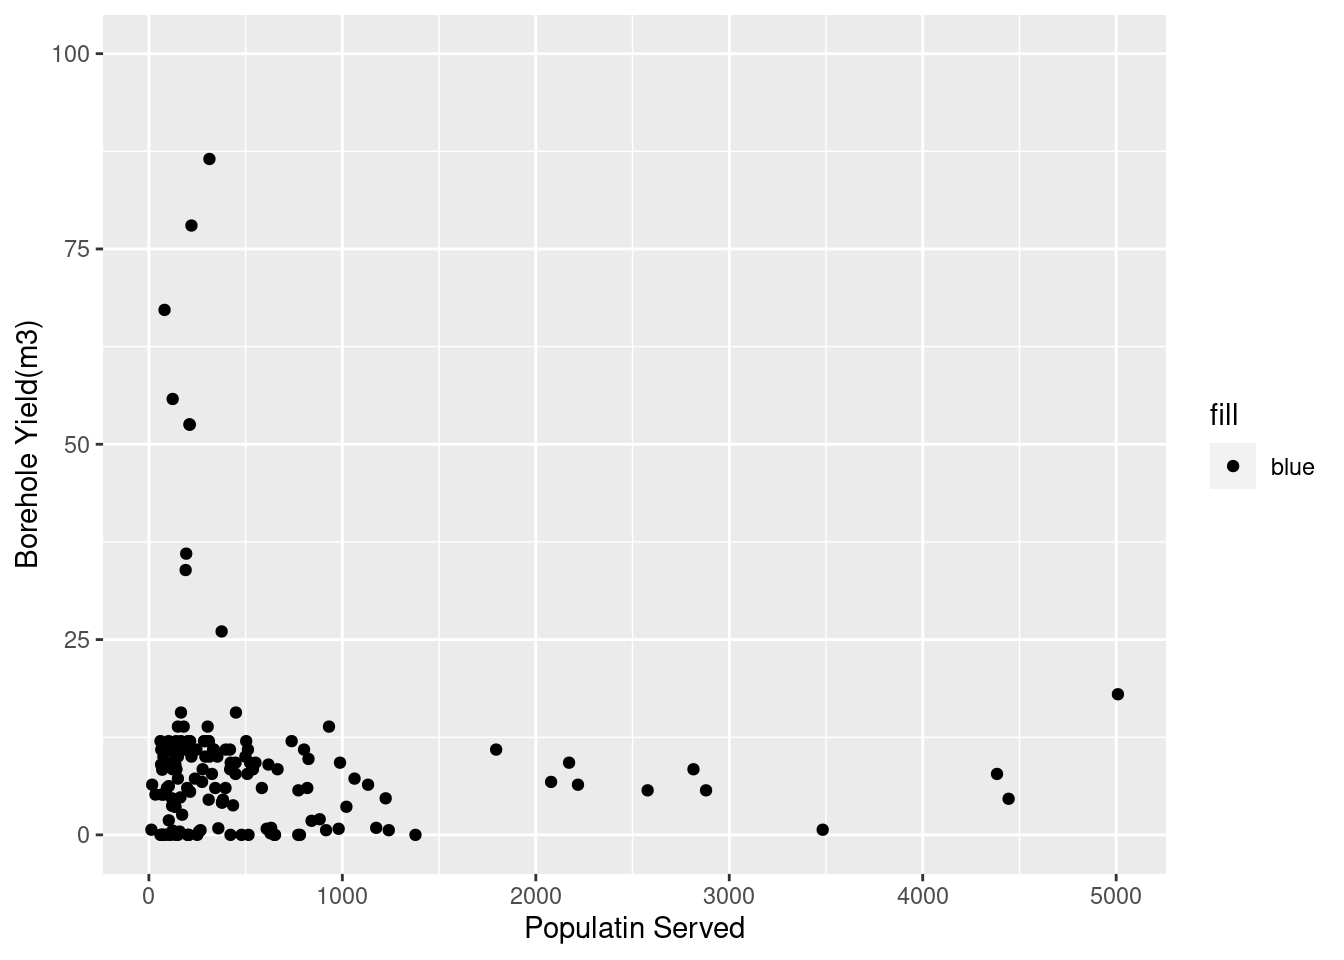
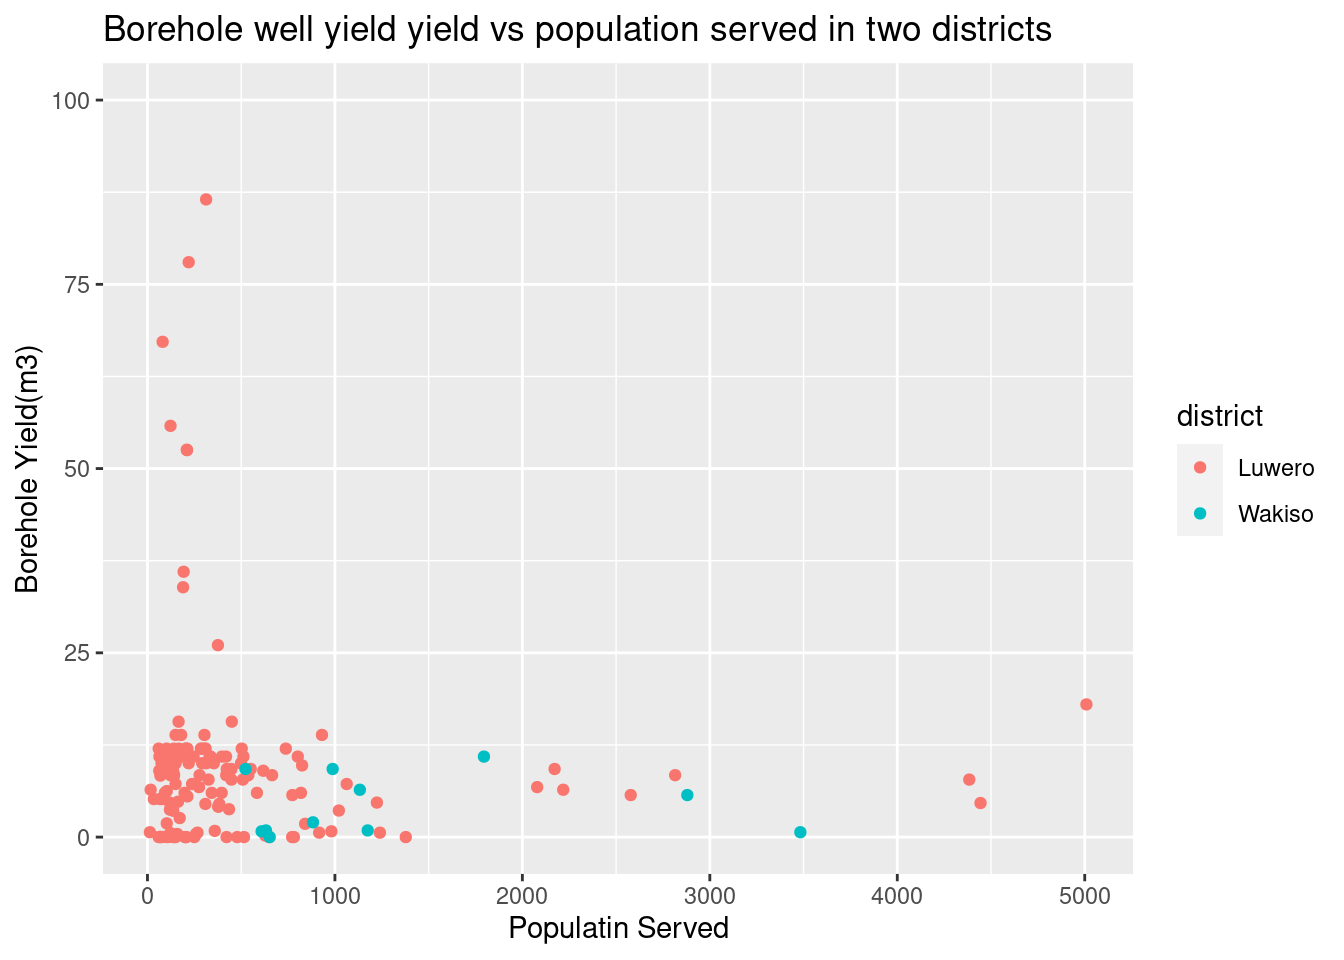
Feb 10

diff --git a/docs/index.html b/docs/index.html
@@ -141,76 +141,135 @@ pre > code.sourceCode > span > a:first-child::before { text-decoration: underlin
 <span id="cb1-6"><a href="#cb1-6" aria-hidden="true" tabindex="-1"></a><span class="fu">library</span>(lubridate)</span>
 <span id="cb1-7"><a href="#cb1-7" aria-hidden="true" tabindex="-1"></a><span class="fu">library</span>(readr)</span>
 <span id="cb1-8"><a href="#cb1-8" aria-hidden="true" tabindex="-1"></a><span class="fu">library</span>(readxl)</span>
-<span id="cb1-9"><a href="#cb1-9" aria-hidden="true" tabindex="-1"></a><span class="fu">library</span>(dplyr)</span></code><button title="Copy to Clipboard" class="code-copy-button"><i class="bi"></i></button></pre></div>
+<span id="cb1-9"><a href="#cb1-9" aria-hidden="true" tabindex="-1"></a><span class="fu">library</span>(gt)</span>
+<span id="cb1-10"><a href="#cb1-10" aria-hidden="true" tabindex="-1"></a><span class="fu">library</span>(dplyr)</span>
+<span id="cb1-11"><a href="#cb1-11" aria-hidden="true" tabindex="-1"></a><span class="fu">library</span>(knitr)</span></code><button title="Copy to Clipboard" class="code-copy-button"><i class="bi"></i></button></pre></div>
 </div>
 <div class="cell">
 <div class="sourceCode cell-code" id="cb2"><pre class="sourceCode r code-with-copy"><code class="sourceCode r"><span id="cb2-1"><a href="#cb2-1" aria-hidden="true" tabindex="-1"></a>borehole <span class="ot">&lt;-</span> <span class="fu">read_csv</span>(here<span class="sc">::</span><span class="fu">here</span>(<span class="st">"data/raw/borehole_repair_data.csv"</span>))</span></code><button title="Copy to Clipboard" class="code-copy-button"><i class="bi"></i></button></pre></div>
 </div>
-<pre><code></code></pre>
 <div class="cell">
-<div class="sourceCode cell-code" id="cb4"><pre class="sourceCode r code-with-copy"><code class="sourceCode r"><span id="cb4-1"><a href="#cb4-1" aria-hidden="true" tabindex="-1"></a>new_well_yield <span class="ot">&lt;-</span> borehole <span class="sc">|&gt;</span> </span>
-<span id="cb4-2"><a href="#cb4-2" aria-hidden="true" tabindex="-1"></a>   <span class="fu">rename</span>(<span class="st">"well_yield"</span> <span class="ot">=</span> <span class="st">"well_yield_(m^3/hr)"</span>)</span>
-<span id="cb4-3"><a href="#cb4-3" aria-hidden="true" tabindex="-1"></a> processed_borehole_data <span class="ot">&lt;-</span> <span class="fu">drop_na</span>(new_well_yield)</span></code><button title="Copy to Clipboard" class="code-copy-button"><i class="bi"></i></button></pre></div>
-</div>
-<pre><code></code></pre>
-<div class="cell">
-<div class="sourceCode cell-code" id="cb6"><pre class="sourceCode r code-with-copy"><code class="sourceCode r"><span id="cb6-1"><a href="#cb6-1" aria-hidden="true" tabindex="-1"></a><span class="fu">glimpse</span>(processed_borehole_data)</span></code><button title="Copy to Clipboard" class="code-copy-button"><i class="bi"></i></button></pre></div>
-<div class="cell-output cell-output-stdout">
-<pre><code>Rows: 157
-Columns: 10
-$ community               &lt;chr&gt; "Kiduula", "Wantula", "Kikondere", "Nakabululu…
-$ parish                  &lt;chr&gt; "KABUNYATA", "SEKAMULI", "KYAWANGABI", "BUBUUB…
-$ sub_county              &lt;chr&gt; "Kamira", "Bamunanika", "Butuntumula", "Zirobw…
-$ source_id               &lt;chr&gt; "850", "846", "953", "848", "849", "847", "101…
-$ repair_date             &lt;date&gt; 2021-10-28, 2021-10-28, 2021-10-28, 2021-10-2…
-$ population_served       &lt;dbl&gt; 120, 132, 123, 68, 90, 149, 103, 34, 69, 17, 1…
-$ well_depth              &lt;dbl&gt; 139.23, 54.96, 79.50, 82.70, 121.23, 42.80, 86…
-$ static_water_depth      &lt;dbl&gt; 17.50, 31.90, 16.74, 26.48, 24.70, 17.07, 33.6…
-$ pump_installation_depth &lt;dbl&gt; 51.00, 53.61, 27.00, 67.00, 41.47, 41.70, 60.6…
-$ well_yield              &lt;dbl&gt; 0.04, 0.12, 0.54, 0.03, 0.03, 0.12, 6.24, 5.16…</code></pre>
-</div>
+<div class="sourceCode cell-code" id="cb3"><pre class="sourceCode r code-with-copy"><code class="sourceCode r"><span id="cb3-1"><a href="#cb3-1" aria-hidden="true" tabindex="-1"></a>new_well_yield <span class="ot">&lt;-</span> borehole <span class="sc">|&gt;</span> </span>
+<span id="cb3-2"><a href="#cb3-2" aria-hidden="true" tabindex="-1"></a>   <span class="fu">rename</span>(<span class="st">"well_yield"</span> <span class="ot">=</span> <span class="st">"well_yield_(m^3/hr)"</span>)</span>
+<span id="cb3-3"><a href="#cb3-3" aria-hidden="true" tabindex="-1"></a> processed_borehole_data <span class="ot">&lt;-</span> <span class="fu">drop_na</span>(new_well_yield)</span></code><button title="Copy to Clipboard" class="code-copy-button"><i class="bi"></i></button></pre></div>
 </div>
 <div class="cell">
-<div class="sourceCode cell-code" id="cb8"><pre class="sourceCode r code-with-copy"><code class="sourceCode r"><span id="cb8-1"><a href="#cb8-1" aria-hidden="true" tabindex="-1"></a><span class="fu">write_csv</span>(processed_borehole_data, here<span class="sc">::</span><span class="fu">here</span>(<span class="st">"data/processed/processed_borehole_data.csv"</span>))</span></code><button title="Copy to Clipboard" class="code-copy-button"><i class="bi"></i></button></pre></div>
+<div class="sourceCode cell-code" id="cb4"><pre class="sourceCode r code-with-copy"><code class="sourceCode r"><span id="cb4-1"><a href="#cb4-1" aria-hidden="true" tabindex="-1"></a><span class="fu">write_csv</span>(processed_borehole_data, here<span class="sc">::</span><span class="fu">here</span>(<span class="st">"data/processed/processed_borehole_data.csv"</span>))</span></code><button title="Copy to Clipboard" class="code-copy-button"><i class="bi"></i></button></pre></div>
 </div>
 <div class="cell">
-<div class="sourceCode cell-code" id="cb9"><pre class="sourceCode r code-with-copy"><code class="sourceCode r"><span id="cb9-1"><a href="#cb9-1" aria-hidden="true" tabindex="-1"></a><span class="fu">ggplot</span>(<span class="at">data =</span> processed_borehole_data,</span>
-<span id="cb9-2"><a href="#cb9-2" aria-hidden="true" tabindex="-1"></a>       <span class="at">mapping =</span> <span class="fu">aes</span>(<span class="at">x =</span> well_depth,</span>
-<span id="cb9-3"><a href="#cb9-3" aria-hidden="true" tabindex="-1"></a>                     <span class="at">fill =</span> sub_county)) <span class="sc">+</span></span>
-<span id="cb9-4"><a href="#cb9-4" aria-hidden="true" tabindex="-1"></a>  <span class="fu">geom_histogram</span>()<span class="sc">+</span></span>
-<span id="cb9-5"><a href="#cb9-5" aria-hidden="true" tabindex="-1"></a>  <span class="fu">xlab</span>(<span class="st">"Borehole Depth(m)"</span>)<span class="sc">+</span></span>
-<span id="cb9-6"><a href="#cb9-6" aria-hidden="true" tabindex="-1"></a>  <span class="fu">ylab</span>(<span class="st">"No. of Boreholes"</span>)</span></code><button title="Copy to Clipboard" class="code-copy-button"><i class="bi"></i></button></pre></div>
+<div class="sourceCode cell-code" id="cb5"><pre class="sourceCode r code-with-copy"><code class="sourceCode r"><span id="cb5-1"><a href="#cb5-1" aria-hidden="true" tabindex="-1"></a>district_column <span class="ot">&lt;-</span> processed_borehole_data <span class="sc">|&gt;</span> </span>
+<span id="cb5-2"><a href="#cb5-2" aria-hidden="true" tabindex="-1"></a><span class="fu">mutate</span>(<span class="at">district =</span> <span class="fu">case_when</span>(</span>
+<span id="cb5-3"><a href="#cb5-3" aria-hidden="true" tabindex="-1"></a>  sub_county <span class="sc">==</span> <span class="st">"Gombe"</span> <span class="sc">~</span> <span class="st">"Wakiso"</span>,</span>
+<span id="cb5-4"><a href="#cb5-4" aria-hidden="true" tabindex="-1"></a>  sub_county <span class="sc">==</span> <span class="st">"Kakiri"</span> <span class="sc">~</span> <span class="st">"Wakiso"</span>,</span>
+<span id="cb5-5"><a href="#cb5-5" aria-hidden="true" tabindex="-1"></a>  sub_county <span class="sc">==</span> <span class="st">"Kakiri Town Council"</span> <span class="sc">~</span> <span class="st">"Wakiso"</span>,</span>
+<span id="cb5-6"><a href="#cb5-6" aria-hidden="true" tabindex="-1"></a>  sub_county <span class="sc">==</span> <span class="st">"Namayumba Town Council"</span> <span class="sc">~</span> <span class="st">"Wakiso"</span>,</span>
+<span id="cb5-7"><a href="#cb5-7" aria-hidden="true" tabindex="-1"></a>  sub_county <span class="sc">==</span> <span class="st">"Kira"</span> <span class="sc">~</span> <span class="st">"Wakiso"</span>,</span>
+<span id="cb5-8"><a href="#cb5-8" aria-hidden="true" tabindex="-1"></a>  <span class="cn">TRUE</span> <span class="sc">~</span> <span class="st">"Luwero"</span></span>
+<span id="cb5-9"><a href="#cb5-9" aria-hidden="true" tabindex="-1"></a>  ))</span></code><button title="Copy to Clipboard" class="code-copy-button"><i class="bi"></i></button></pre></div>
+</div>
+<div class="cell">
+<div class="sourceCode cell-code" id="cb6"><pre class="sourceCode r code-with-copy"><code class="sourceCode r"><span id="cb6-1"><a href="#cb6-1" aria-hidden="true" tabindex="-1"></a><span class="fu">ggplot</span>(<span class="at">data =</span> district_column,</span>
+<span id="cb6-2"><a href="#cb6-2" aria-hidden="true" tabindex="-1"></a>       <span class="at">mapping =</span> <span class="fu">aes</span>(<span class="at">x =</span> well_depth,</span>
+<span id="cb6-3"><a href="#cb6-3" aria-hidden="true" tabindex="-1"></a>                     <span class="at">fill =</span> district)) <span class="sc">+</span></span>
+<span id="cb6-4"><a href="#cb6-4" aria-hidden="true" tabindex="-1"></a>  <span class="fu">geom_histogram</span>()<span class="sc">+</span></span>
+<span id="cb6-5"><a href="#cb6-5" aria-hidden="true" tabindex="-1"></a>  <span class="fu">xlab</span>(<span class="st">"Borehole Depth(m)"</span>)<span class="sc">+</span></span>
+<span id="cb6-6"><a href="#cb6-6" aria-hidden="true" tabindex="-1"></a>  <span class="fu">ylab</span>(<span class="st">"No. of Boreholes"</span>)<span class="sc">+</span></span>
+<span id="cb6-7"><a href="#cb6-7" aria-hidden="true" tabindex="-1"></a><span class="fu">labs</span>(<span class="at">title =</span> <span class="st">"Borehole population served summary, data from two districts"</span>)</span></code><button title="Copy to Clipboard" class="code-copy-button"><i class="bi"></i></button></pre></div>
 <div class="cell-output-display">
-<p><img src="index_files/figure-html/Histogram%20showing%20distribution%20of%20well_depth-1.png" class="img-fluid" width="672"></p>
+<div class="quarto-figure quarto-figure-center">
+<figure class="figure">
+<p><img src="index_files/figure-html/Histogram%20showing%20distribution%20of%20well_depth%20per%20district-1.png" class="img-fluid figure-img" width="672"></p>
+<figcaption class="figure-caption">Luwero and Wakiso District borehole depth</figcaption>
+</figure>
 </div>
-</div>
-<div class="cell">
-<div class="sourceCode cell-code" id="cb10"><pre class="sourceCode r code-with-copy"><code class="sourceCode r"><span id="cb10-1"><a href="#cb10-1" aria-hidden="true" tabindex="-1"></a><span class="fu">ggplot</span>(<span class="at">data =</span> processed_borehole_data,</span>
-<span id="cb10-2"><a href="#cb10-2" aria-hidden="true" tabindex="-1"></a>       <span class="at">mapping =</span> <span class="fu">aes</span>(<span class="at">x =</span> population_served,</span>
-<span id="cb10-3"><a href="#cb10-3" aria-hidden="true" tabindex="-1"></a>                     <span class="at">y =</span> well_yield,</span>
-<span id="cb10-4"><a href="#cb10-4" aria-hidden="true" tabindex="-1"></a>                     <span class="at">fill =</span> <span class="st">"blue"</span>))<span class="sc">+</span></span>
-<span id="cb10-5"><a href="#cb10-5" aria-hidden="true" tabindex="-1"></a>  <span class="fu">geom_point</span>()<span class="sc">+</span></span>
-<span id="cb10-6"><a href="#cb10-6" aria-hidden="true" tabindex="-1"></a>  <span class="fu">lims</span>(<span class="at">y =</span> <span class="fu">c</span>(<span class="dv">0</span>,<span class="dv">100</span>))<span class="sc">+</span></span>
-<span id="cb10-7"><a href="#cb10-7" aria-hidden="true" tabindex="-1"></a>  <span class="fu">xlab</span>(<span class="st">"Populatin Served"</span>)<span class="sc">+</span></span>
-<span id="cb10-8"><a href="#cb10-8" aria-hidden="true" tabindex="-1"></a>  <span class="fu">ylab</span>(<span class="st">"Borehole Yield(m3)"</span>)</span></code><button title="Copy to Clipboard" class="code-copy-button"><i class="bi"></i></button></pre></div>
-<div class="cell-output-display">
-<p><img src="index_files/figure-html/Chart%20showing%20distribution%20of%20well%20yield%20according%20to%20Population%20served-1.png" class="img-fluid" width="672"></p>
 </div>
 </div>
 <div class="cell">
-<div class="sourceCode cell-code" id="cb11"><pre class="sourceCode r code-with-copy"><code class="sourceCode r"><span id="cb11-1"><a href="#cb11-1" aria-hidden="true" tabindex="-1"></a>summary_data <span class="ot">&lt;-</span> processed_borehole_data <span class="sc">|&gt;</span>  </span>
-<span id="cb11-2"><a href="#cb11-2" aria-hidden="true" tabindex="-1"></a>  <span class="fu">group_by</span>(repair_date) <span class="sc">|&gt;</span> </span>
-<span id="cb11-3"><a href="#cb11-3" aria-hidden="true" tabindex="-1"></a>  <span class="fu">summarise</span>(<span class="at">count =</span> <span class="fu">n</span>())</span>
-<span id="cb11-4"><a href="#cb11-4" aria-hidden="true" tabindex="-1"></a></span>
-<span id="cb11-5"><a href="#cb11-5" aria-hidden="true" tabindex="-1"></a><span class="fu">ggplot</span>(<span class="at">data =</span> summary_data,</span>
-<span id="cb11-6"><a href="#cb11-6" aria-hidden="true" tabindex="-1"></a>       <span class="at">mapping =</span> <span class="fu">aes</span>(<span class="at">x =</span> <span class="fu">quarter</span>(repair_date),</span>
-<span id="cb11-7"><a href="#cb11-7" aria-hidden="true" tabindex="-1"></a>                     <span class="at">y =</span> count,</span>
-<span id="cb11-8"><a href="#cb11-8" aria-hidden="true" tabindex="-1"></a>                     <span class="at">fill =</span> <span class="fu">year</span>(repair_date))) <span class="sc">+</span></span>
-<span id="cb11-9"><a href="#cb11-9" aria-hidden="true" tabindex="-1"></a>  <span class="fu">geom_col</span>()<span class="sc">+</span></span>
-<span id="cb11-10"><a href="#cb11-10" aria-hidden="true" tabindex="-1"></a>  <span class="fu">xlab</span>(<span class="st">"Repair date/ Quarter"</span>)<span class="sc">+</span></span>
-<span id="cb11-11"><a href="#cb11-11" aria-hidden="true" tabindex="-1"></a>  <span class="fu">ylab</span>(<span class="st">"No. of Boreholes"</span>)</span></code><button title="Copy to Clipboard" class="code-copy-button"><i class="bi"></i></button></pre></div>
+<div class="sourceCode cell-code" id="cb7"><pre class="sourceCode r code-with-copy"><code class="sourceCode r"><span id="cb7-1"><a href="#cb7-1" aria-hidden="true" tabindex="-1"></a><span class="fu">ggplot</span>(<span class="at">data =</span> district_column, </span>
+<span id="cb7-2"><a href="#cb7-2" aria-hidden="true" tabindex="-1"></a>       <span class="at">mapping =</span> <span class="fu">aes</span>(<span class="at">x =</span> population_served, </span>
+<span id="cb7-3"><a href="#cb7-3" aria-hidden="true" tabindex="-1"></a>                     <span class="at">y =</span> well_yield, </span>
+<span id="cb7-4"><a href="#cb7-4" aria-hidden="true" tabindex="-1"></a>                     <span class="at">fill =</span> district, </span>
+<span id="cb7-5"><a href="#cb7-5" aria-hidden="true" tabindex="-1"></a>                     <span class="at">color =</span> district))<span class="sc">+</span> </span>
+<span id="cb7-6"><a href="#cb7-6" aria-hidden="true" tabindex="-1"></a>  <span class="fu">geom_point</span>()<span class="sc">+</span> </span>
+<span id="cb7-7"><a href="#cb7-7" aria-hidden="true" tabindex="-1"></a>  <span class="fu">lims</span>(<span class="at">y =</span> <span class="fu">c</span>(<span class="dv">0</span>,<span class="dv">100</span>))<span class="sc">+</span> </span>
+<span id="cb7-8"><a href="#cb7-8" aria-hidden="true" tabindex="-1"></a>  <span class="fu">xlab</span>(<span class="st">"Populatin Served"</span>)<span class="sc">+</span> </span>
+<span id="cb7-9"><a href="#cb7-9" aria-hidden="true" tabindex="-1"></a>  <span class="fu">ylab</span>(<span class="st">"Borehole Yield(m3)"</span>)<span class="sc">+</span></span>
+<span id="cb7-10"><a href="#cb7-10" aria-hidden="true" tabindex="-1"></a><span class="fu">labs</span>(<span class="at">title =</span> <span class="st">"Borehole well yield yield vs population served in two districts"</span>)</span></code><button title="Copy to Clipboard" class="code-copy-button"><i class="bi"></i></button></pre></div>
 <div class="cell-output-display">
-<p><img src="index_files/figure-html/Line%20graph%20showing%20number%20of%20boreholes%20repaired%20by%20year-1.png" class="img-fluid" width="672"></p>
+<div class="quarto-figure quarto-figure-center">
+<figure class="figure">
+<p><img src="index_files/figure-html/Chart%20showing%20distribution%20of%20well%20yield%20according%20to%20Population%20served-1.png" class="img-fluid figure-img" width="672"></p>
+<figcaption class="figure-caption">Luwero and Wakiso district borehole yield</figcaption>
+</figure>
+</div>
+</div>
+</div>
+<div class="cell">
+<div class="sourceCode cell-code" id="cb8"><pre class="sourceCode r code-with-copy"><code class="sourceCode r"><span id="cb8-1"><a href="#cb8-1" aria-hidden="true" tabindex="-1"></a><span class="co">#| label: Column graph showing number of boreholes repaired by quarter of a year</span></span>
+<span id="cb8-2"><a href="#cb8-2" aria-hidden="true" tabindex="-1"></a><span class="co">#| fig-cap: Borehole by quarter repaired</span></span>
+<span id="cb8-3"><a href="#cb8-3" aria-hidden="true" tabindex="-1"></a></span>
+<span id="cb8-4"><a href="#cb8-4" aria-hidden="true" tabindex="-1"></a>summary_data <span class="ot">&lt;-</span> processed_borehole_data <span class="sc">|&gt;</span>  </span>
+<span id="cb8-5"><a href="#cb8-5" aria-hidden="true" tabindex="-1"></a>  <span class="fu">group_by</span>(repair_date) <span class="sc">|&gt;</span> </span>
+<span id="cb8-6"><a href="#cb8-6" aria-hidden="true" tabindex="-1"></a>  <span class="fu">summarise</span>(<span class="at">count =</span> <span class="fu">n</span>())</span>
+<span id="cb8-7"><a href="#cb8-7" aria-hidden="true" tabindex="-1"></a></span>
+<span id="cb8-8"><a href="#cb8-8" aria-hidden="true" tabindex="-1"></a><span class="fu">ggplot</span>(<span class="at">data =</span> summary_data,</span>
+<span id="cb8-9"><a href="#cb8-9" aria-hidden="true" tabindex="-1"></a>       <span class="at">mapping =</span> <span class="fu">aes</span>(<span class="at">x =</span> <span class="fu">quarter</span>(repair_date),</span>
+<span id="cb8-10"><a href="#cb8-10" aria-hidden="true" tabindex="-1"></a>                     <span class="at">y =</span> count,</span>
+<span id="cb8-11"><a href="#cb8-11" aria-hidden="true" tabindex="-1"></a>                     <span class="at">fill =</span> <span class="fu">year</span>(repair_date))) <span class="sc">+</span></span>
+<span id="cb8-12"><a href="#cb8-12" aria-hidden="true" tabindex="-1"></a>  <span class="fu">geom_col</span>()<span class="sc">+</span></span>
+<span id="cb8-13"><a href="#cb8-13" aria-hidden="true" tabindex="-1"></a>  <span class="fu">xlab</span>(<span class="st">"Repair date/ Quarter"</span>)<span class="sc">+</span></span>
+<span id="cb8-14"><a href="#cb8-14" aria-hidden="true" tabindex="-1"></a>  <span class="fu">ylab</span>(<span class="st">"No. of Boreholes"</span>)<span class="sc">+</span></span>
+<span id="cb8-15"><a href="#cb8-15" aria-hidden="true" tabindex="-1"></a><span class="fu">labs</span>(<span class="at">title =</span> <span class="st">"Borehole repaired by quarter of the year"</span>)</span></code><button title="Copy to Clipboard" class="code-copy-button"><i class="bi"></i></button></pre></div>
+<div class="cell-output-display">
+<p><img src="index_files/figure-html/unnamed-chunk-8-1.png" class="img-fluid" width="672"></p>
+</div>
+</div>
+<div class="cell">
+<div class="sourceCode cell-code" id="cb9"><pre class="sourceCode r code-with-copy"><code class="sourceCode r"><span id="cb9-1"><a href="#cb9-1" aria-hidden="true" tabindex="-1"></a><span class="co"># table creation</span></span>
+<span id="cb9-2"><a href="#cb9-2" aria-hidden="true" tabindex="-1"></a>tbl_bhr_summary <span class="ot">&lt;-</span> district_column <span class="sc">|&gt;</span> </span>
+<span id="cb9-3"><a href="#cb9-3" aria-hidden="true" tabindex="-1"></a>  <span class="fu">group_by</span>(district) <span class="sc">|&gt;</span> </span>
+<span id="cb9-4"><a href="#cb9-4" aria-hidden="true" tabindex="-1"></a>  <span class="fu">summarise</span>(</span>
+<span id="cb9-5"><a href="#cb9-5" aria-hidden="true" tabindex="-1"></a>    <span class="at">count =</span> <span class="fu">n</span>(),</span>
+<span id="cb9-6"><a href="#cb9-6" aria-hidden="true" tabindex="-1"></a>    <span class="at">mean_popn =</span> <span class="fu">mean</span>(population_served),</span>
+<span id="cb9-7"><a href="#cb9-7" aria-hidden="true" tabindex="-1"></a>    <span class="at">sd_popn =</span> <span class="fu">sd</span>(population_served),</span>
+<span id="cb9-8"><a href="#cb9-8" aria-hidden="true" tabindex="-1"></a>    <span class="at">median_popn =</span> <span class="fu">median</span>(population_served)</span>
+<span id="cb9-9"><a href="#cb9-9" aria-hidden="true" tabindex="-1"></a>  ) </span>
+<span id="cb9-10"><a href="#cb9-10" aria-hidden="true" tabindex="-1"></a><span class="co"># export table to processed folder </span></span>
+<span id="cb9-11"><a href="#cb9-11" aria-hidden="true" tabindex="-1"></a><span class="fu">write_csv</span>(tbl_bhr_summary, here<span class="sc">::</span><span class="fu">here</span>(<span class="st">"data/processed/tbl-01-bhr-summary.csv"</span>))</span></code><button title="Copy to Clipboard" class="code-copy-button"><i class="bi"></i></button></pre></div>
+</div>
+<p><span class="citation" data-cites="tbl_bhr_summary">@tbl_bhr_summary</span> shows that Wakiso District has more people served by just 11 boreholes compared to Luwero District which has 136 boreholes.</p>
+<div class="cell">
+<div class="sourceCode cell-code" id="cb10"><pre class="sourceCode r code-with-copy"><code class="sourceCode r"><span id="cb10-1"><a href="#cb10-1" aria-hidden="true" tabindex="-1"></a><span class="co"># Using kable() to display the bhr-summary table</span></span>
+<span id="cb10-2"><a href="#cb10-2" aria-hidden="true" tabindex="-1"></a><span class="fu">kable</span>(tbl_bhr_summary)</span></code><button title="Copy to Clipboard" class="code-copy-button"><i class="bi"></i></button></pre></div>
+<div class="cell-output-display">
+<table class="table table-sm table-striped small">
+<caption>Borehole population served summary, data from two districts </caption>
+<thead>
+<tr class="header">
+<th style="text-align: left;">district</th>
+<th style="text-align: right;">count</th>
+<th style="text-align: right;">mean_popn</th>
+<th style="text-align: right;">sd_popn</th>
+<th style="text-align: right;">median_popn</th>
+</tr>
+</thead>
+<tbody>
+<tr class="odd">
+<td style="text-align: left;">Luwero</td>
+<td style="text-align: right;">146</td>
+<td style="text-align: right;">487.1507</td>
+<td style="text-align: right;">757.8711</td>
+<td style="text-align: right;">263</td>
+</tr>
+<tr class="even">
+<td style="text-align: left;">Wakiso</td>
+<td style="text-align: right;">11</td>
+<td style="text-align: right;">1341.1818</td>
+<td style="text-align: right;">987.4383</td>
+<td style="text-align: right;">988</td>
+</tr>
+</tbody>
+</table>
 </div>
 </div>
 </section>
@@ -222,7 +281,7 @@ $ well_yield              &lt;dbl&gt; 0.04, 0.12, 0.54, 0.03, 0.03, 0.12, 6.24, 
 <h2 class="anchored" data-anchor-id="running-code">Running Code</h2>
 <p>When you click the <strong>Render</strong> button a document will be generated that includes both content and the output of embedded code. You can embed code like this:</p>
 <div class="cell">
-<div class="sourceCode cell-code" id="cb12"><pre class="sourceCode r code-with-copy"><code class="sourceCode r"><span id="cb12-1"><a href="#cb12-1" aria-hidden="true" tabindex="-1"></a><span class="dv">1</span> <span class="sc">+</span> <span class="dv">1</span></span></code><button title="Copy to Clipboard" class="code-copy-button"><i class="bi"></i></button></pre></div>
+<div class="sourceCode cell-code" id="cb11"><pre class="sourceCode r code-with-copy"><code class="sourceCode r"><span id="cb11-1"><a href="#cb11-1" aria-hidden="true" tabindex="-1"></a><span class="dv">1</span> <span class="sc">+</span> <span class="dv">1</span></span></code><button title="Copy to Clipboard" class="code-copy-button"><i class="bi"></i></button></pre></div>
 <div class="cell-output cell-output-stdout">
 <pre><code>[1] 2</code></pre>
 </div>
